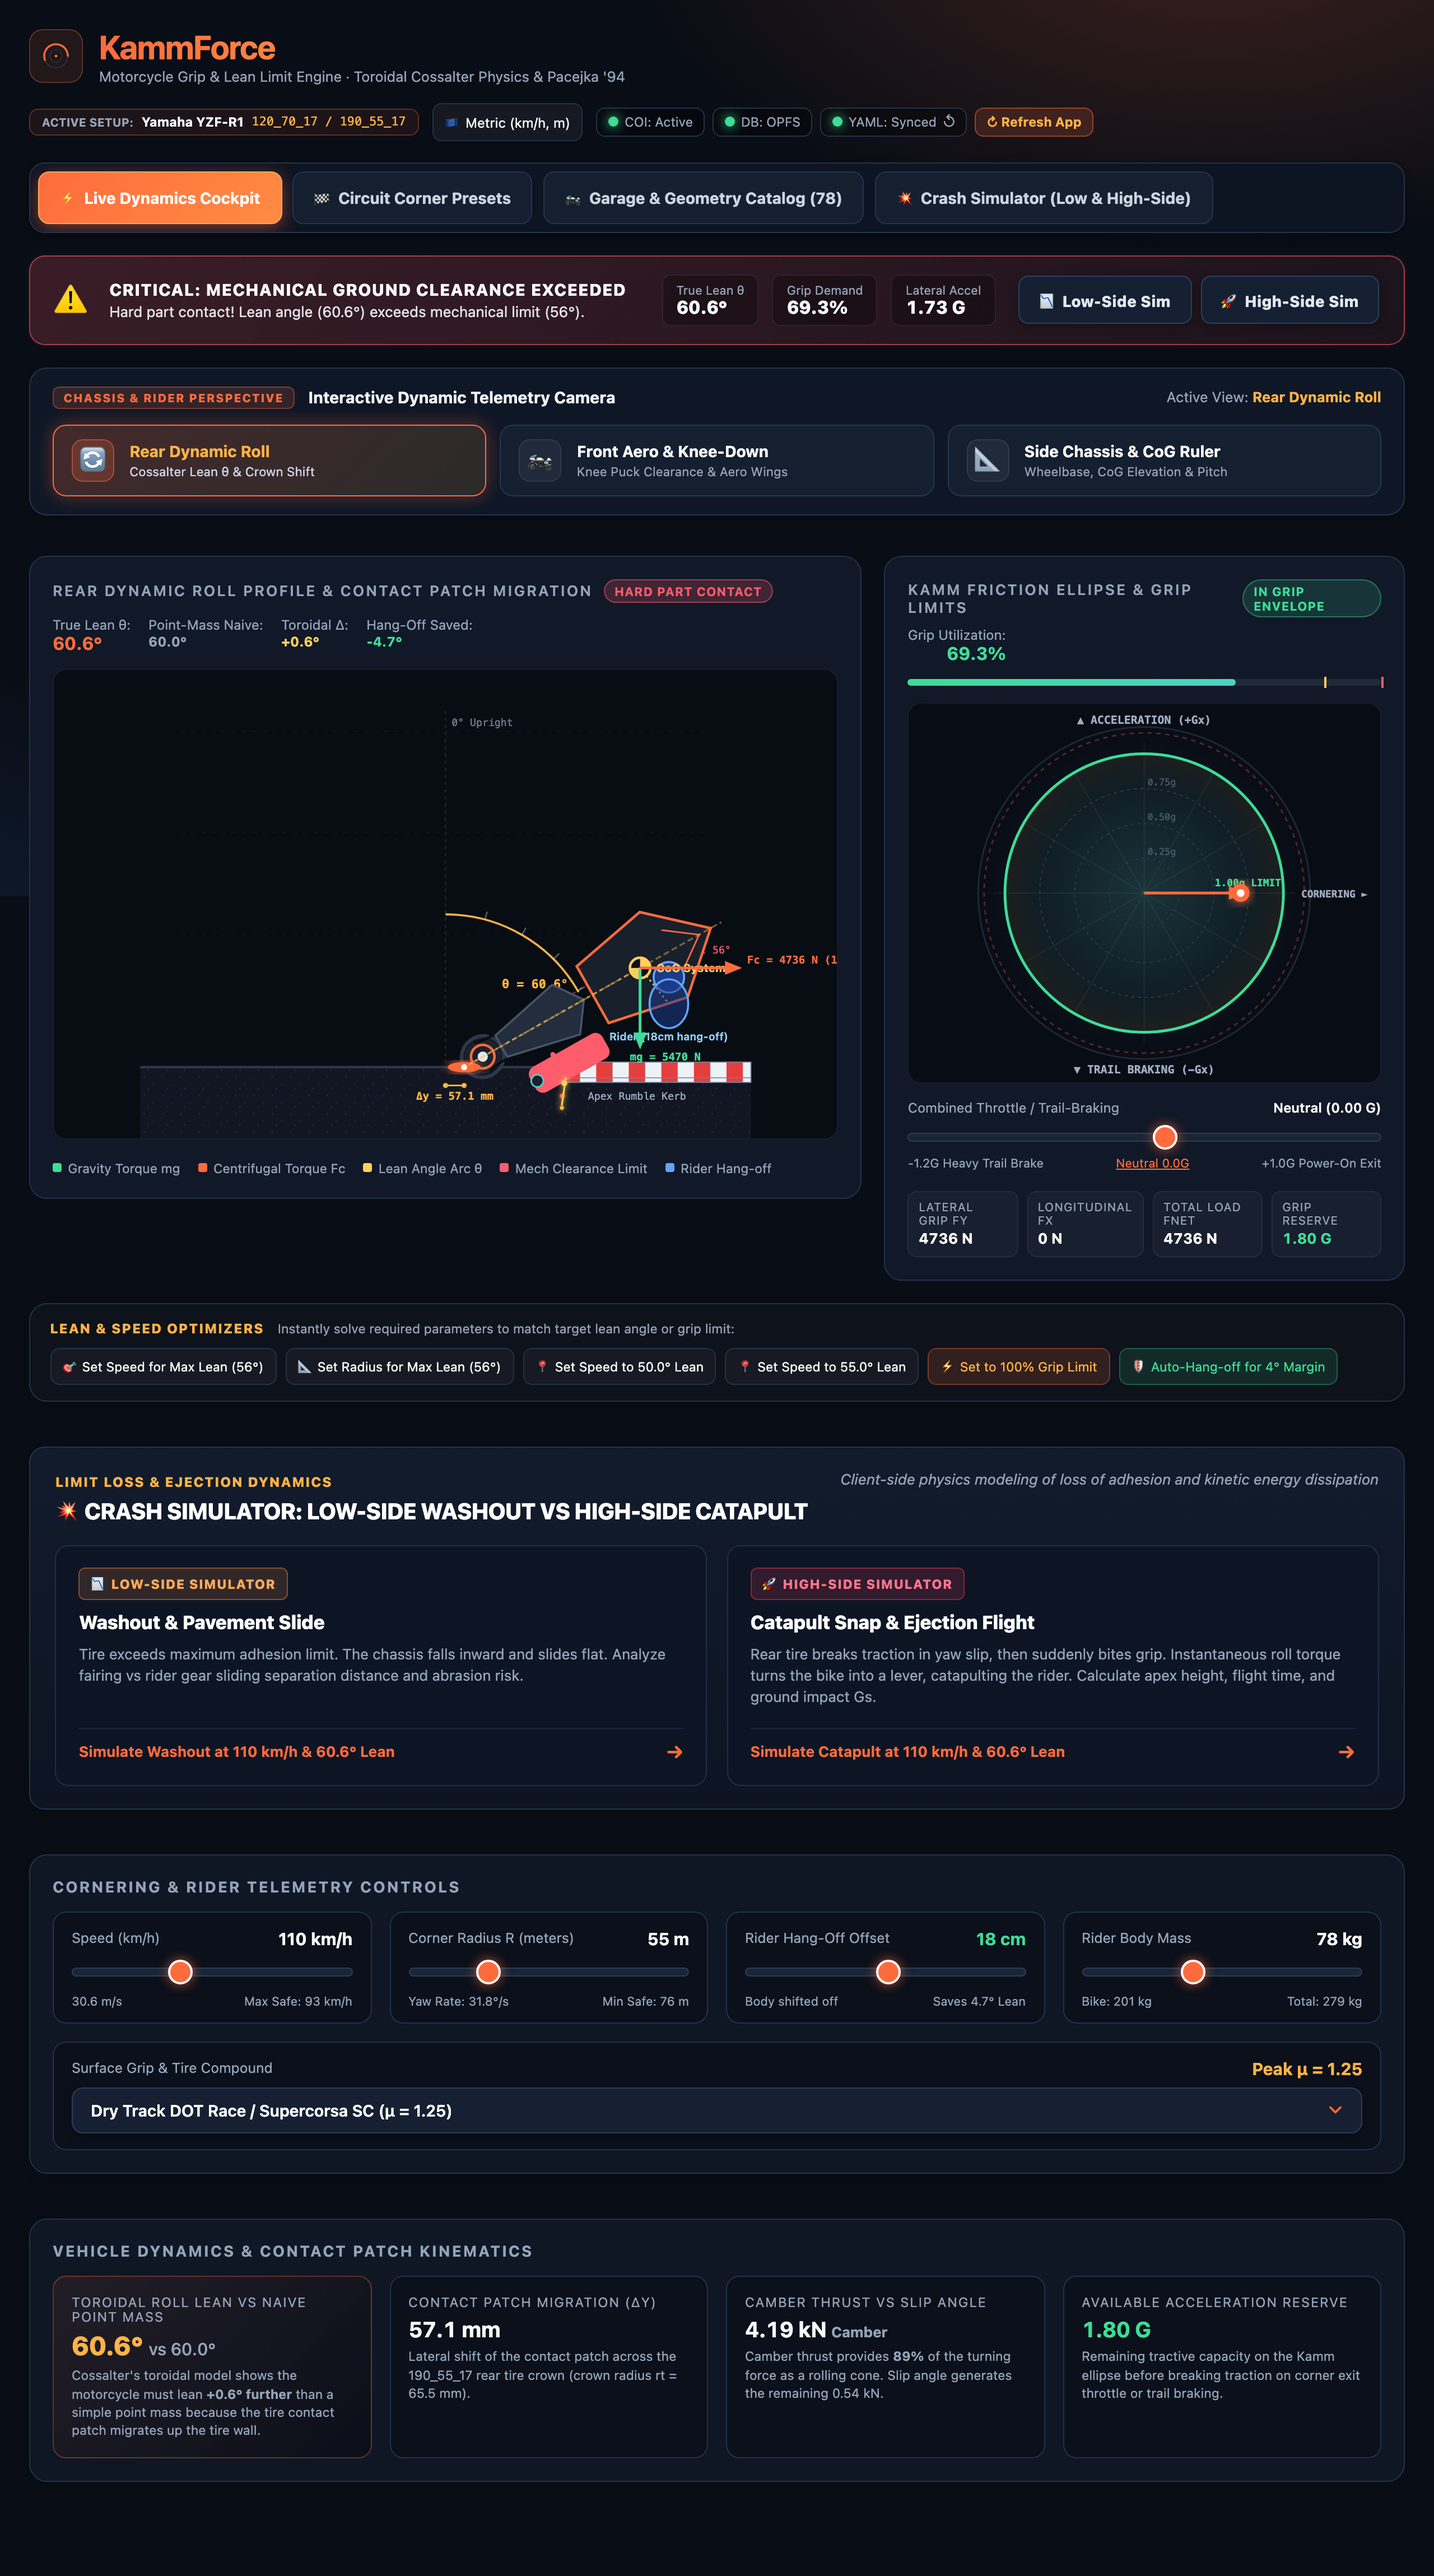
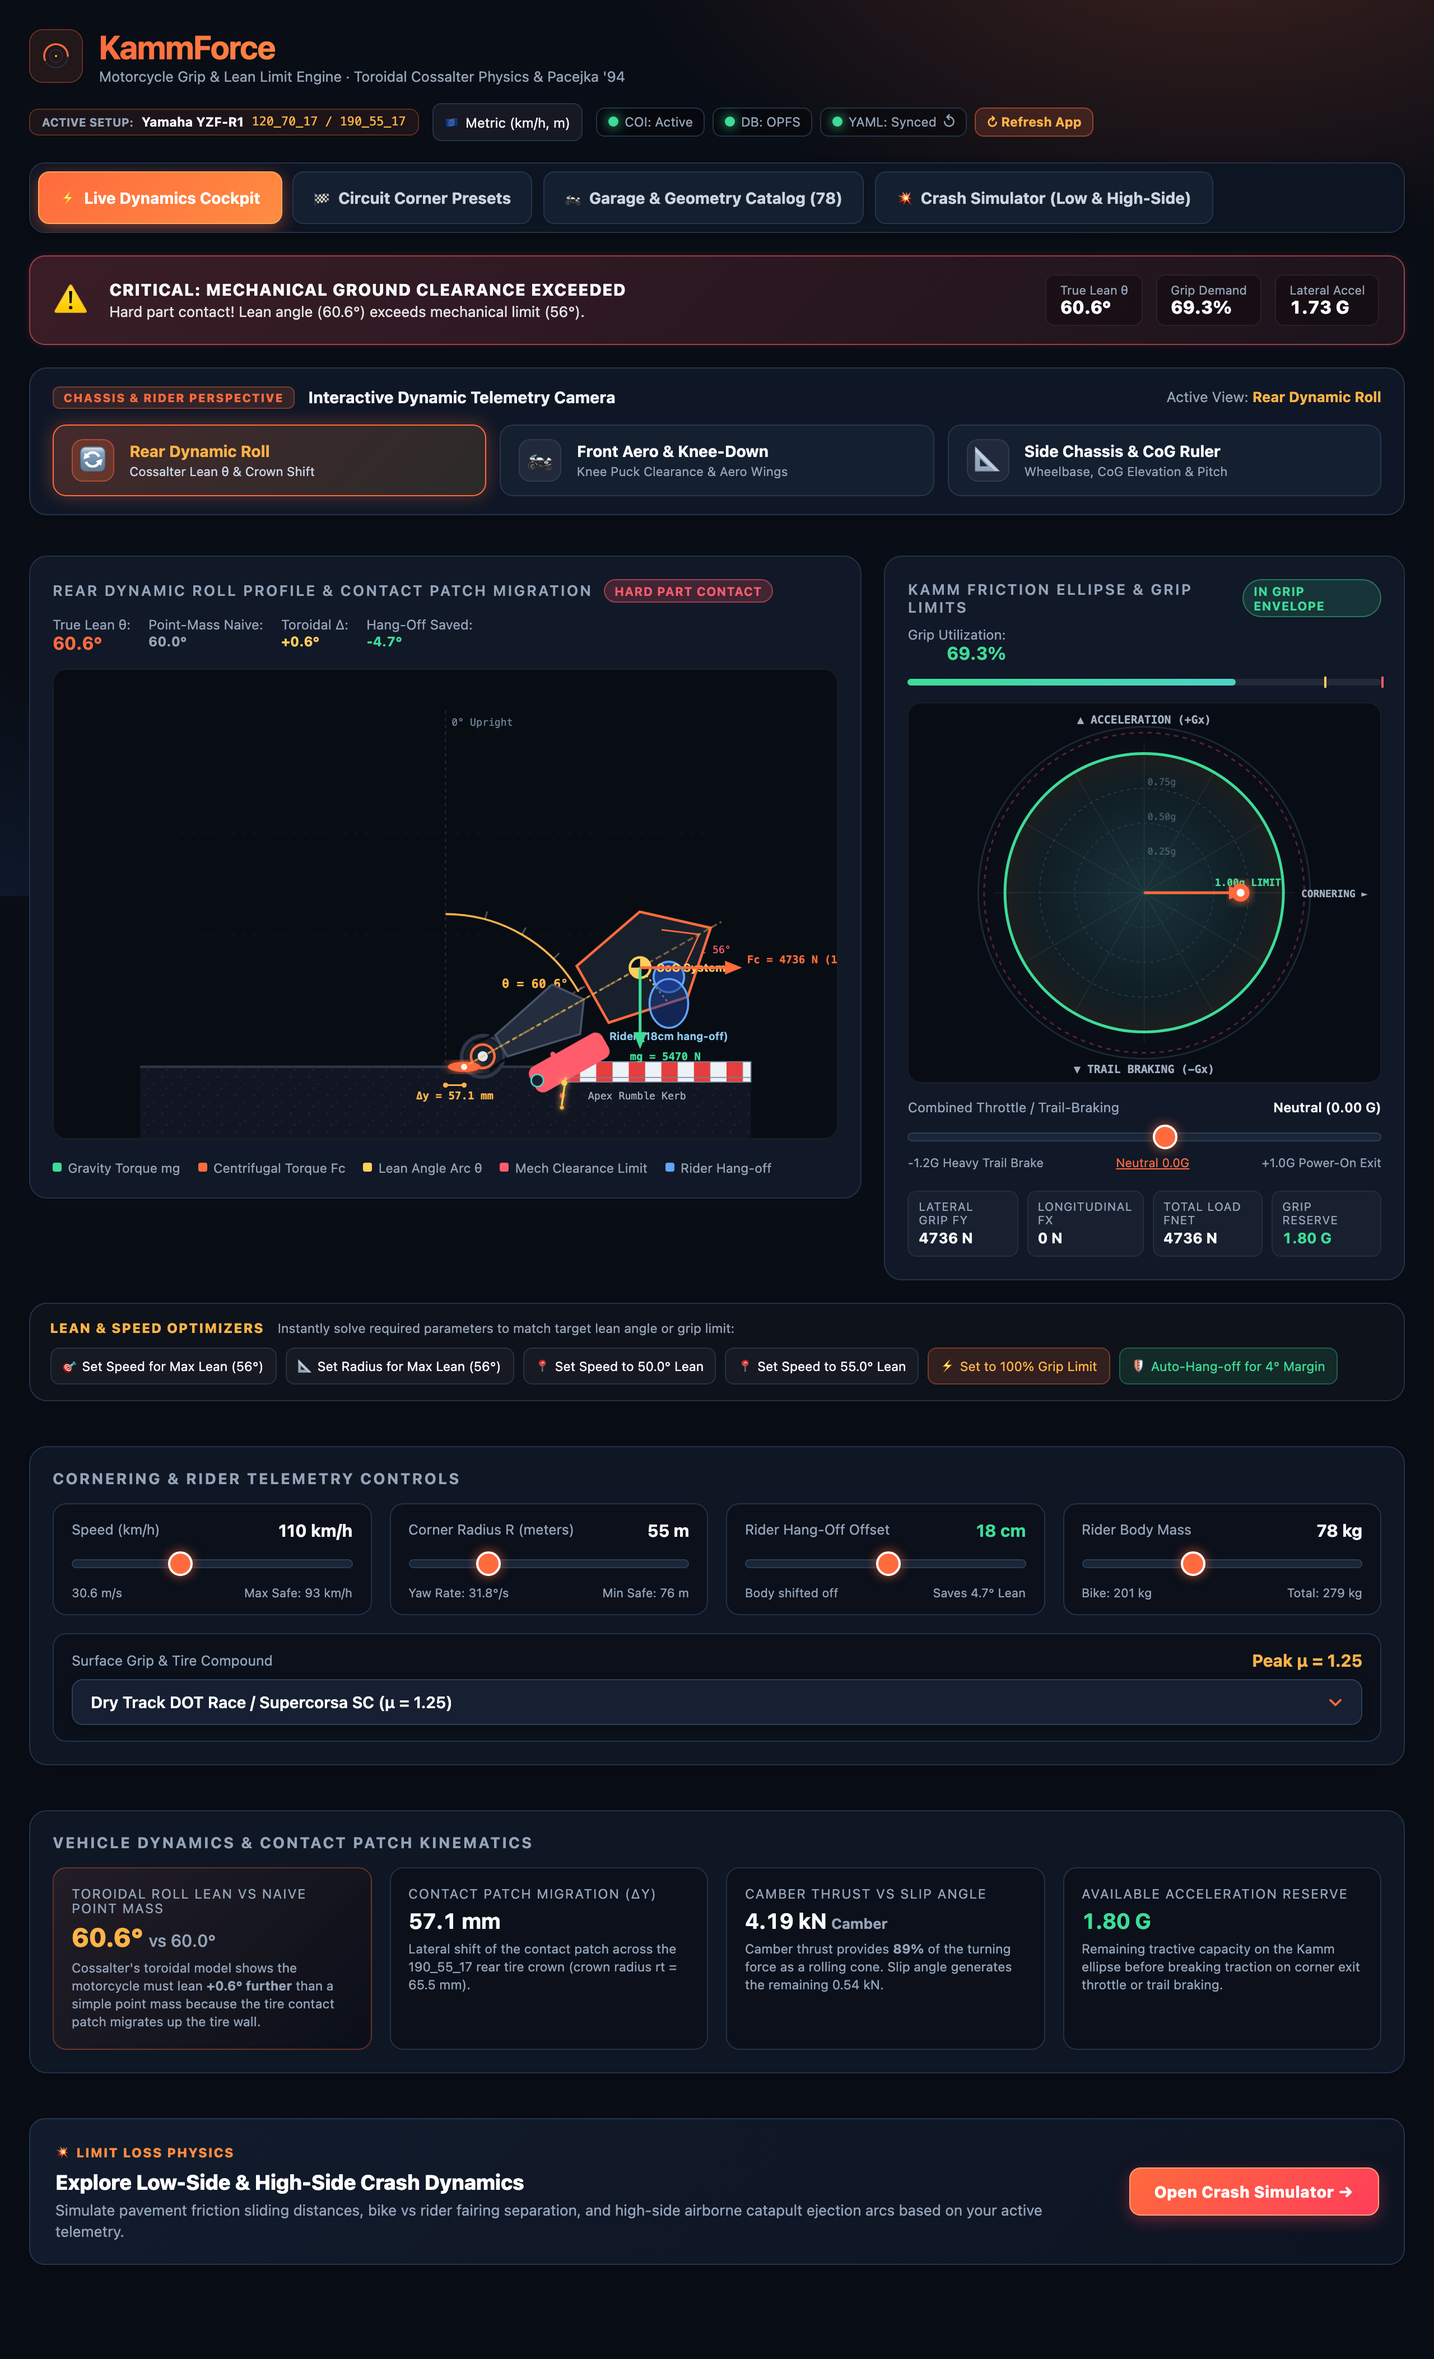
fix(ui): streamline crash simulator navigation, eliminate doubled links and optimize layout

diff --git a/src/App.vue b/src/App.vue
@@ -422,7 +422,7 @@ onMounted(boot);
             <span class="v">{{ telemetry.lateralAccelG.toFixed(2) }} G</span>
           </div>
         </div>
-        <div class="alert-actions">
+        <div class="alert-actions" v-if="telemetry.safetyStatus === 'lowside' || telemetry.safetyStatus === 'highside'">
           <button
             v-if="telemetry.safetyStatus === 'lowside'"
             type="button"
@@ -439,24 +439,6 @@ onMounted(boot);
           >
             🚀 Simulate High-Side Catapult ({{ speedKmh }} km/h) →
           </button>
-          <div v-else class="sim-action-links">
-            <button
-              type="button"
-              class="sim-action-btn secondary"
-              @click="openCrashSimulator('lowside')"
-              title="Simulate front or rear slide washout and sliding distance"
-            >
-              📉 Low-Side Sim
-            </button>
-            <button
-              type="button"
-              class="sim-action-btn secondary"
-              @click="openCrashSimulator('highside')"
-              title="Simulate rear snap grip bite and catapult flight arc"
-            >
-              🚀 High-Side Sim
-            </button>
-          </div>
         </div>
       </section>
 
@@ -599,42 +581,6 @@ onMounted(boot);
           </div>
         </section>
 
-        <!-- Crash Kinematics & Limit Loss Direct Launchers -->
-        <section class="card crash-entry-card">
-          <div class="crash-card-header">
-            <div>
-              <span class="section-tag alert">LIMIT LOSS &amp; EJECTION DYNAMICS</span>
-              <h2 class="crash-card-title">💥 Crash Simulator: Low-Side Washout vs High-Side Catapult</h2>
-            </div>
-            <span class="crash-card-sub">Client-side physics modeling of loss of adhesion and kinetic energy dissipation</span>
-          </div>
-          <div class="crash-entry-grid">
-            <div class="crash-entry-box lowside-box" @click="openCrashSimulator('lowside')" role="button" tabindex="0">
-              <div class="box-badge lowside-badge">📉 LOW-SIDE SIMULATOR</div>
-              <div class="box-title">Washout &amp; Pavement Slide</div>
-              <p class="box-desc">
-                Tire exceeds maximum adhesion limit. The chassis falls inward and slides flat. Analyze fairing vs rider gear sliding separation distance and abrasion risk.
-              </p>
-              <div class="box-cta">
-                <span>Simulate Washout at {{ speedKmh }} km/h &amp; {{ telemetry.toroidalBikeLeanDeg.toFixed(1) }}° Lean</span>
-                <span class="arrow">→</span>
-              </div>
-            </div>
-
-            <div class="crash-entry-box highside-box" @click="openCrashSimulator('highside')" role="button" tabindex="0">
-              <div class="box-badge highside-badge">🚀 HIGH-SIDE SIMULATOR</div>
-              <div class="box-title">Catapult Snap &amp; Ejection Flight</div>
-              <p class="box-desc">
-                Rear tire breaks traction in yaw slip, then suddenly bites grip. Instantaneous roll torque turns the bike into a lever, catapulting the rider. Calculate apex height, flight time, and ground impact Gs.
-              </p>
-              <div class="box-cta">
-                <span>Simulate Catapult at {{ speedKmh }} km/h &amp; {{ telemetry.toroidalBikeLeanDeg.toFixed(1) }}° Lean</span>
-                <span class="arrow">→</span>
-              </div>
-            </div>
-          </div>
-        </section>
-
         <!-- Interactive Controls Card -->
         <section class="card controls-card">
           <h2>Cornering &amp; Rider Telemetry Controls</h2>
@@ -767,6 +713,24 @@ onMounted(boot);
               </div>
             </div>
           </div>
+        </section>
+
+        <!-- Limit Loss & Crash Dynamics Footer Bridge -->
+        <section class="card crash-footer-bridge">
+          <div class="bridge-left">
+            <span class="bridge-tag">💥 LIMIT LOSS PHYSICS</span>
+            <h3>Explore Low-Side &amp; High-Side Crash Dynamics</h3>
+            <p>
+              Simulate pavement friction sliding distances, bike vs rider fairing separation, and high-side airborne catapult ejection arcs based on your active telemetry.
+            </p>
+          </div>
+          <button
+            type="button"
+            class="bridge-btn"
+            @click="activeTab = 'crash'"
+          >
+            Open Crash Simulator →
+          </button>
         </section>
       </div>
     </main>
@@ -1075,115 +1039,65 @@ h1 {
   border: none;
 }
 
-.crash-entry-card {
+.crash-footer-bridge {
   padding: 1.25rem 1.4rem;
-  background: linear-gradient(180deg, rgba(20, 30, 48, 0.85), rgba(13, 20, 34, 0.98));
+  background: linear-gradient(135deg, rgba(20, 30, 48, 0.85), rgba(13, 20, 34, 0.95));
   border: 1.5px solid #23354d;
-  display: flex;
-  flex-direction: column;
-  gap: 1rem;
   border-radius: 14px;
-}
-.crash-card-header {
-  display: flex;
-  justify-content: space-between;
-  align-items: flex-start;
-  flex-wrap: wrap;
-  gap: 0.5rem;
-}
-.crash-card-title {
-  margin: 0.25rem 0 0;
-  font-size: 1.25rem;
-  font-weight: 800;
-  color: #ffffff;
-  letter-spacing: -0.01em;
-}
-.crash-card-sub {
-  font-size: 0.82rem;
-  color: #94a3b8;
-  font-style: italic;
-}
-.crash-entry-grid {
-  display: grid;
-  grid-template-columns: repeat(auto-fit, minmax(320px, 1fr));
-  gap: 1.1rem;
-}
-.crash-entry-box {
-  background: #0d1524;
-  border: 1.5px solid #1f2f47;
-  border-radius: 12px;
-  padding: 1.2rem 1.25rem;
-  cursor: pointer;
-  transition: all 0.25s cubic-bezier(0.16, 1, 0.3, 1);
-  display: flex;
-  flex-direction: column;
-  gap: 0.6rem;
-  position: relative;
-  overflow: hidden;
-}
-.crash-entry-box:hover {
-  transform: translateY(-3px);
-  box-shadow: 0 10px 28px rgba(0, 0, 0, 0.5);
-}
-.crash-entry-box.lowside-box:hover {
-  border-color: #ff8c42;
-  box-shadow: 0 10px 28px rgba(255, 140, 66, 0.25);
-}
-.crash-entry-box.highside-box:hover {
-  border-color: #ff3d5a;
-  box-shadow: 0 10px 28px rgba(255, 61, 90, 0.25);
-}
-.box-badge {
-  display: inline-block;
-  align-self: flex-start;
-  font-size: 0.72rem;
-  font-weight: 800;
-  letter-spacing: 0.06em;
-  padding: 0.25rem 0.6rem;
-  border-radius: 6px;
-}
-.box-badge.lowside-badge {
-  background: rgba(255, 140, 66, 0.15);
-  border: 1px solid rgba(255, 140, 66, 0.4);
-  color: #ffaa5a;
-}
-.box-badge.highside-badge {
-  background: rgba(255, 61, 90, 0.15);
-  border: 1px solid rgba(255, 61, 90, 0.4);
-  color: #ff758c;
-}
-.box-title {
-  font-size: 1.05rem;
-  font-weight: 800;
-  color: #ffffff;
-}
-.box-desc {
-  margin: 0;
-  font-size: 0.82rem;
-  color: #94a3b8;
-  line-height: 1.45;
-  flex-grow: 1;
-}
-.box-cta {
   display: flex;
   align-items: center;
   justify-content: space-between;
-  margin-top: 0.5rem;
-  padding-top: 0.6rem;
-  border-top: 1px solid #1a273b;
-  font-size: 0.82rem;
-  font-weight: 700;
-  color: var(--accent);
+  flex-wrap: wrap;
+  gap: 1.25rem;
 }
-.crash-entry-box:hover .box-cta {
+
+.bridge-left {
+  display: flex;
+  flex-direction: column;
+  gap: 0.35rem;
+  flex: 1 1 360px;
+}
+
+.bridge-tag {
+  font-size: 0.72rem;
+  font-weight: 800;
+  letter-spacing: 0.08em;
+  color: #ff8c42;
+}
+
+.bridge-left h3 {
+  margin: 0;
+  font-size: 1.15rem;
+  font-weight: 800;
   color: #ffffff;
 }
-.box-cta .arrow {
-  font-size: 1.1rem;
-  transition: transform 0.2s ease;
+
+.bridge-left p {
+  margin: 0;
+  font-size: 0.83rem;
+  color: #94a3b8;
+  line-height: 1.4;
 }
-.crash-entry-box:hover .box-cta .arrow {
-  transform: translateX(4px);
+
+.bridge-btn {
+  background: linear-gradient(135deg, #ff6b3d, #ff3d5a);
+  border: 1.5px solid #ffa17a;
+  color: #ffffff;
+  padding: 0.75rem 1.35rem;
+  border-radius: 10px;
+  font-size: 0.88rem;
+  font-weight: 800;
+  cursor: pointer;
+  letter-spacing: 0.02em;
+  box-shadow: 0 4px 14px rgba(255, 61, 90, 0.35);
+  transition: all 0.2s cubic-bezier(0.16, 1, 0.3, 1);
+  white-space: nowrap;
+}
+
+.bridge-btn:hover {
+  transform: translateY(-2px);
+  box-shadow: 0 6px 20px rgba(255, 61, 90, 0.55);
+  border-color: #ffffff;
 }
 
 .calculator-view {
